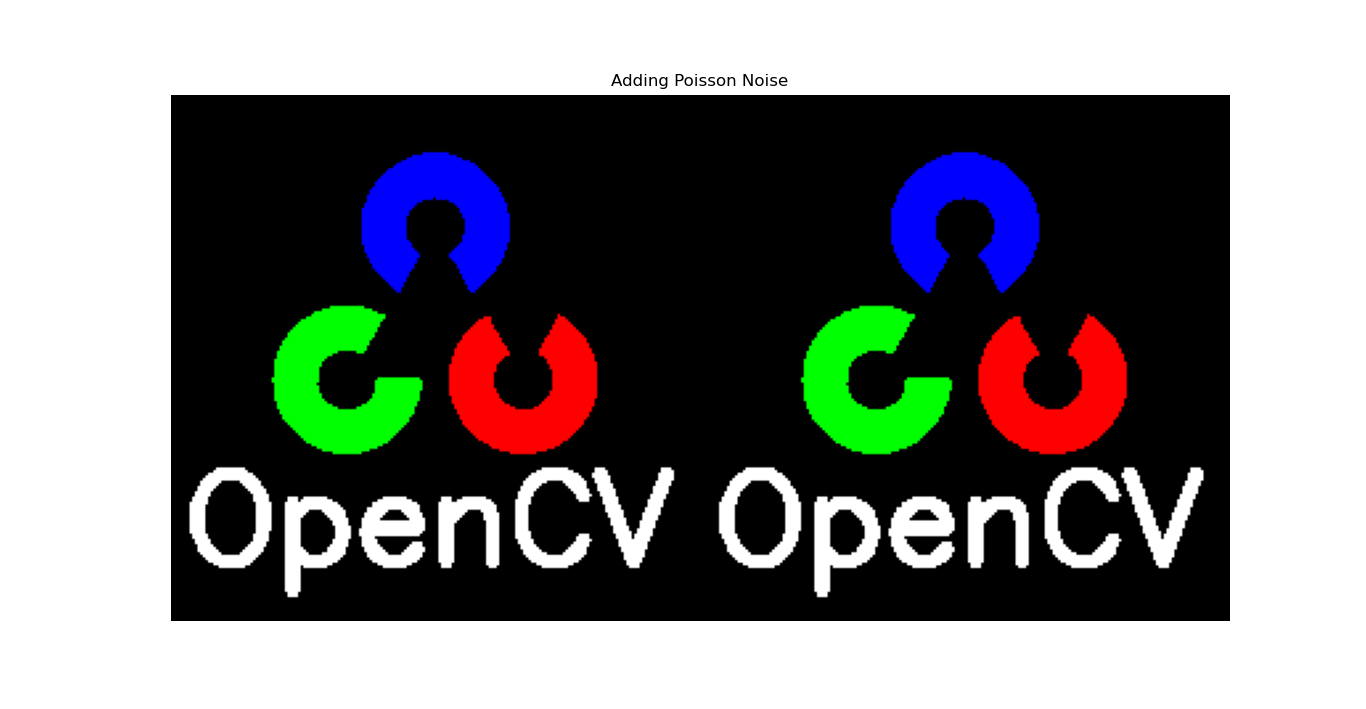
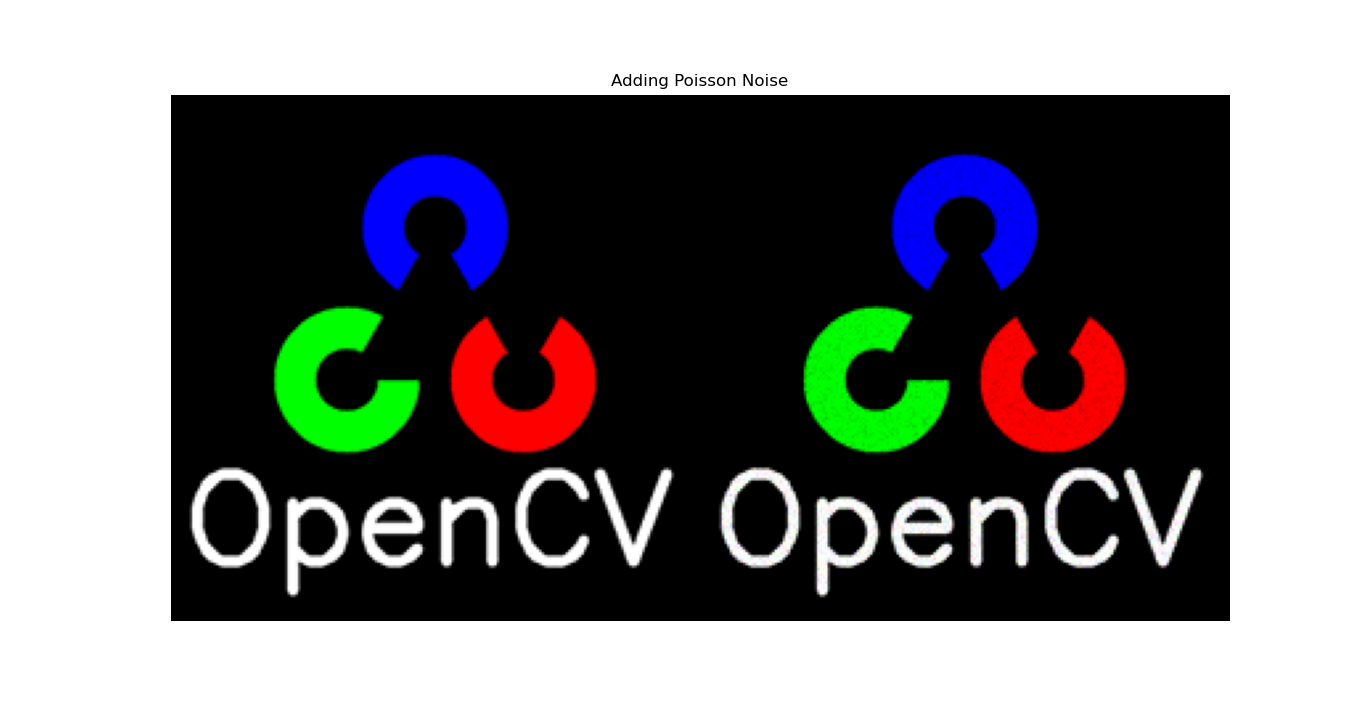
Added poisson noise to image

diff --git a/src/07 - Blurring And Smoothing/07-Adding_Noise_to_Image.py b/src/07 - Blurring And Smoothing/07-Adding_Noise_to_Image.py
@@ -16,6 +16,8 @@ Reference : https://theailearner.com/2019/05/07/add-different-noise-to-an-image/
 
 # import package
 
+from operator import pos
+import posixpath
 import cv2
 import random
 from numpy.lib.type_check import imag
@@ -23,6 +25,7 @@ import skimage
 from skimage import io
 import numpy as np
 import matplotlib.pyplot as plt
+import plotly.express as px
 
 
 def gaussian_noise():
@@ -51,6 +54,7 @@ def gaussian_noise():
     plt.show()
     cv2.waitKey(0)
 
+
 def salt_and_pepper_noise(prob):
 
     # Read image
@@ -78,17 +82,33 @@ def salt_and_pepper_noise(prob):
     plt.show()
 
 
-
 def poission_noise():
 
     # Read image
     img = cv2.imread('../Images and Videos/logo.png')
+
+    # Copy of the image
     image = img.copy()
-    vals = len(np.unique(image))
-    vals = 2 ** np.ceil(np.log2(vals))
-    poisson_noisy_image = np.random.poisson(image * vals) / float(vals)
+
+    info = np.iinfo(image.dtype)
+    print(image.dtype, info)
+
+    image = image.astype(np.float64) / info.max
+
+    # Poission noise using skimage library
+    poisson_noisy_image = skimage.util.random_noise(image, mode="poisson")
+
+    poisson_noisy_image = 255 * poisson_noisy_image 
+    poisson_noisy_image = poisson_noisy_image.astype(np.uint8)
 
     res = np.hstack([img,poisson_noisy_image])
+
+    df = [img.ravel(), poisson_noisy_image.ravel()]    
+    for i in range(2):
+        plt.subplot(1,2,(i+1))
+        plt.hist(df[i])
+    plt.show()
+
     plt.imshow(res)
     plt.title('Adding Poisson Noise')
     plt.axis('off')
@@ -112,53 +132,4 @@ if __name__=='__main__':
     salt_and_pepper_noise(prob = 0.05)
     poission_noise()
     speckle()
-# def plotnoise(img, mode, r, c, i):
-#     plt.subplot(r,c,i)
-#     if mode is not None:
-#         gimg = skimage.util.random_noise(img, mode=mode)
-#         plt.imshow(gimg)
-#     else:
-#         plt.imshow(img)
-#     plt.title(mode)
-#     plt.axis("off")
 
-# def adding_noise_using_skimage_library():
-
-#     img_path="https://i.guim.co.uk/img/media/4ddba561156645952502f7241bd1a64abd0e48a3/0_1251_3712_2225/master/3712.jpg?width=1920&quality=85&auto=format&fit=max&s=1280341b186f8352416517fc997cd7da"
-#     img = io.imread(img_path)/255.0
-
-#     row, col = 4,2
-#     noise_type = ["gaussian","localvar", "poisson", "salt", "pepper", "s&p", "speckle"]
-#     for i in range(1, len(noise_type)+1):    
-#         plotnoise(img, noise_type[i-1], row,col, i)
-#     plt.show()
-
-# adding_noise_using_skimage_library()
-
-# img_path="https://i.guim.co.uk/img/media/4ddba561156645952502f7241bd1a64abd0e48a3/0_1251_3712_2225/master/3712.jpg?width=1920&quality=85&auto=format&fit=max&s=1280341b186f8352416517fc997cd7da"
-# img = skimage.io.imread(img_path)/255.0
-# gimg = skimage.util.random_noise(img, mode="s&p")
-# plt.imshow(gimg)
-# plt.show()
-# def plotnoise(img, mode, r, c, i):
-#     plt.subplot(r,c,i)
-#     if mode is not None:
-#         gimg = skimage.util.random_noise(img, mode=mode)
-#         plt.imshow(gimg)
-#     else:
-#         plt.imshow(img)
-#     plt.title(mode)
-#     plt.axis("off")
-
-# plt.figure(figsize=(18,24))
-# r=4
-# c=2
-# plotnoise(img, "gaussian", r,c,1)
-# plotnoise(img, "localvar", r,c,2)
-# plotnoise(img, "poisson", r,c,3)
-# plotnoise(img, "salt", r,c,4)
-# plotnoise(img, "pepper", r,c,5)
-# plotnoise(img, "s&p", r,c,6)
-# plotnoise(img, "speckle", r,c,7)
-# plotnoise(img, None, r,c,8)
-# plt.show()
